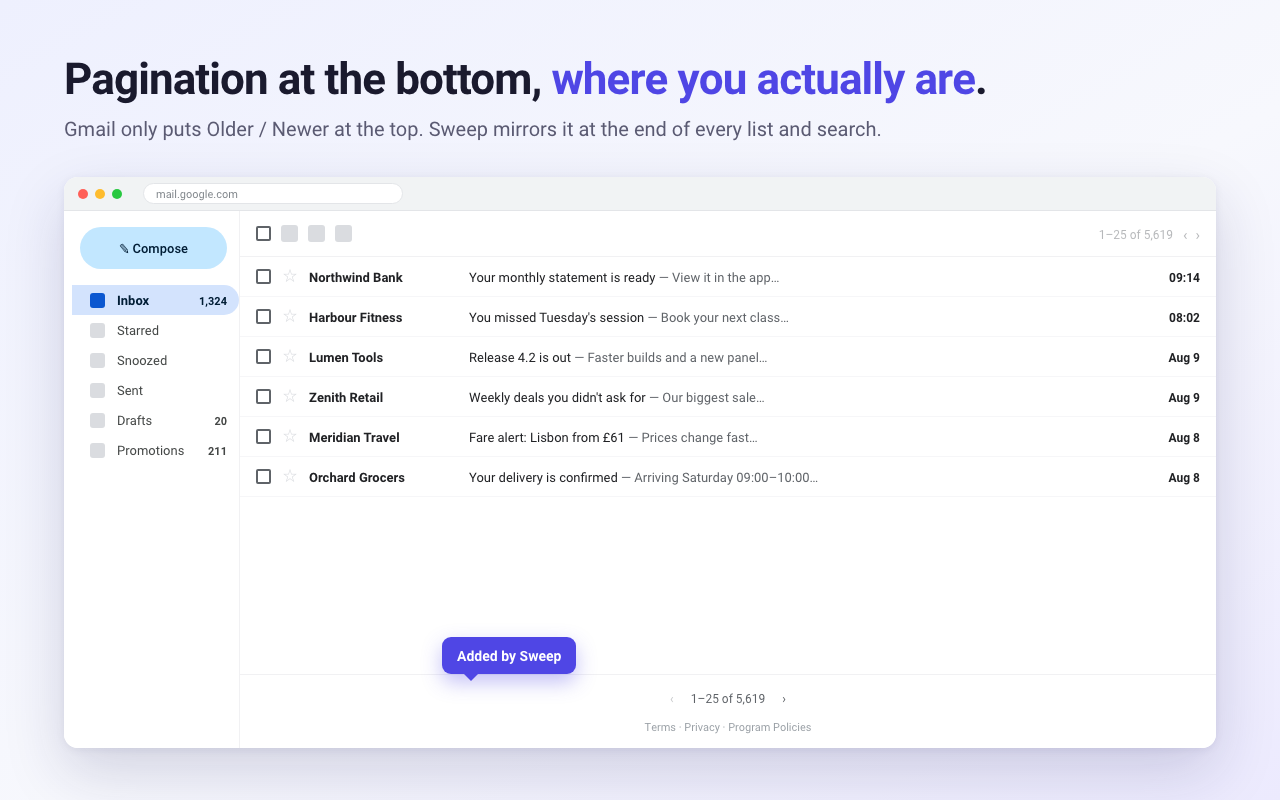
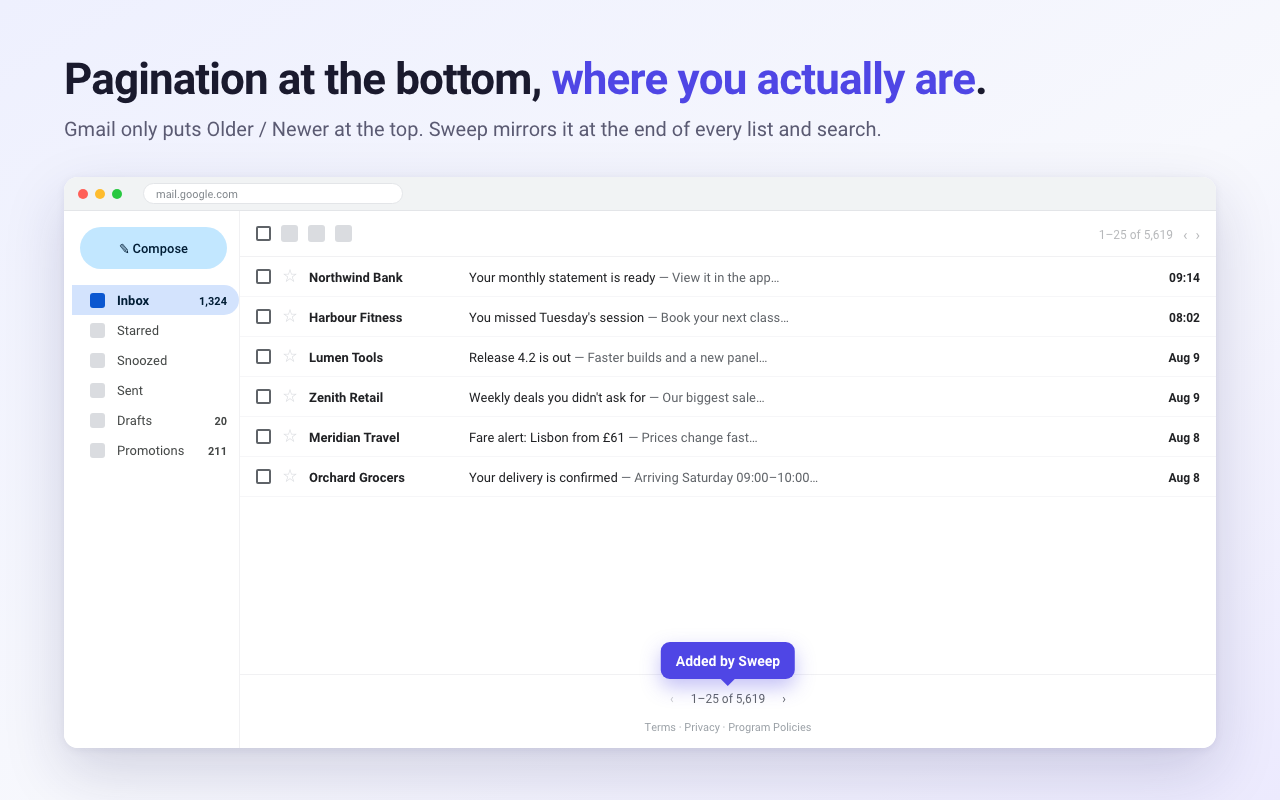
fix(assets): centre the 'Added by Sweep' callout over the pager
It was placed with hardcoded left/bottom offsets and sat off to one side of what
it pointed at. Now nested inside .sweep-pager with a .center modifier, so the
arrow lands on the target regardless of how wide the label renders.

Changed region(s): [[0.5, 0.7812, 0.625, 0.875], [0.3438, 0.7812, 0.4688, 0.875]]

diff --git a/assets/src/base.css b/assets/src/base.css
@@ -234,6 +234,7 @@ body {
   font-size: 12px;
   color: #5f6368;
   padding-bottom: 8px;
+  position: relative; /* positioning context for the callout above it */
 }
 .sweep-pager .chev {
   width: 26px; height: 26px; border-radius: 50%;
@@ -263,6 +264,11 @@ body {
 .callout.up::after { border-bottom-color: #4f46e5; top: -14px; left: 22px; }
 .callout.down::after { border-top-color: #4f46e5; bottom: -14px; left: 22px; }
 .callout.left::after { border-right-color: #4f46e5; left: -14px; top: 11px; }
+
+/* Centred over whatever it is nested inside, so the arrow lands on the target
+   instead of on a hand-guessed offset. */
+.callout.center { left: 50%; transform: translateX(-50%); }
+.callout.center::after { left: 50%; margin-left: -7px; }
 
 .ring {
   position: absolute;

diff --git a/assets/src/shot-4.html b/assets/src/shot-4.html
@@ -72,11 +72,10 @@
             <span class="chev off">‹</span>
             1–25 of 5,619
             <span class="chev">›</span>
+            <div class="callout down center" style="bottom:calc(100% + 6px)">Added by Sweep</div>
           </div>
           <div class="legal">Terms · Privacy · Program Policies</div>
         </div>
-
-        <div class="callout down" style="left:378px;bottom:74px">Added by Sweep</div>
       </div>
     </div>
   </div>
